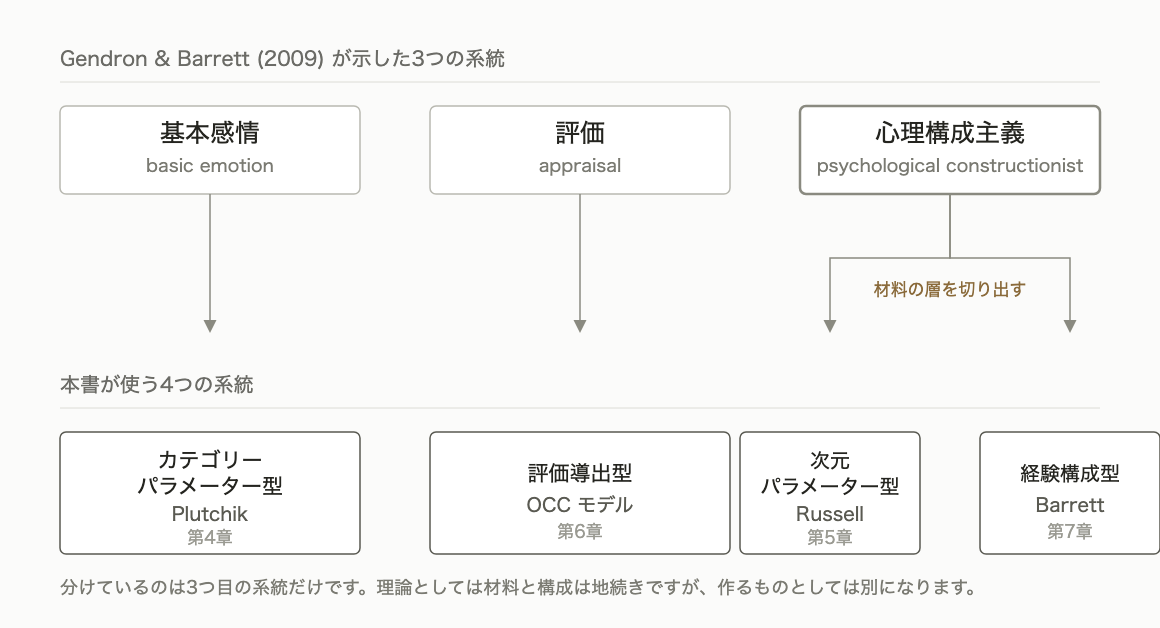
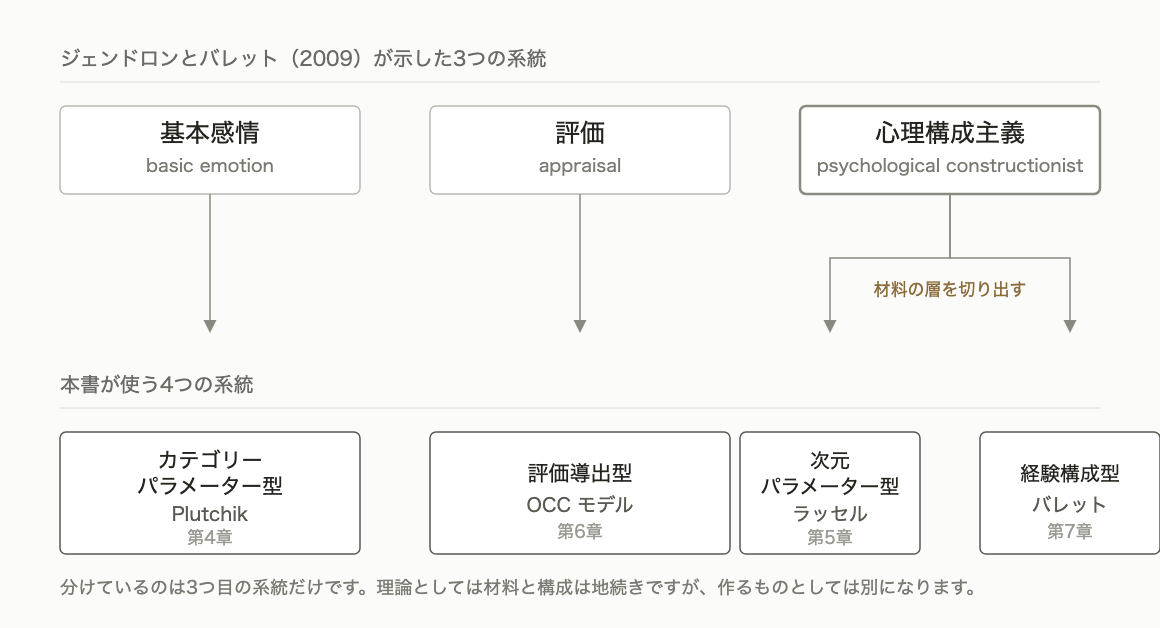
docs: 人名表記のルールを定め第2章に適用する
初出は原語表記とカタカナを併記し以降はカタカナで書く。本文に一度しか
出ない人名は原語のまま残す。カタカナは日本語文献の定着表記を優先し、
定着が確認できないものは原音からの転写とする。

第2章は本文12名をカタカナ化し、主図の人名も本文に揃えて再生成した。
あわせてレビュー指摘を反映し、節1 の4モデルの列挙を削除する。

Changed region(s): [[0.031, 0.0605, 0.4655, 0.121], [0.6828, 0.7866, 0.7448, 0.8471], [0.869, 0.7866, 0.9621, 0.8169]]

diff --git a/.cadenza/chapters/ch02.md b/.cadenza/chapters/ch02.md
@@ -79,8 +79,41 @@
 - garden の `papers/README.md` の Mehrabian & Russell の入手リンクが 1980年ペーパーバック版（ISBN 9780262630719）を指している。1974年初版は 9780262130905。誤りではないが版が違う。**ch2 の参考文献リストは初版の ISBN で正しい**
 - 参考文献の Panksepp 1998 だけ ISBN がない（版が複数あり確定できなかったため。書式の軽い不統一）
 
+### 人名表記の適用（2026-07-28・オーナー確定のルールを反映）
+
+`../state.md` と `../../docs/superpowers/writing-style-guide.md` の「人名の表記」に従い、本文と図版に適用した。
+
+**カタカナ化した12名**（本文に2回以上出現）。カタカナは Fable による調査で確定（定着表記の有無を区別して確認）。
+
+| 原語 | カタカナ | 定着の有無 |
+|---|---|---|
+| Ekman | エクマン | 定着（誠信書房『表情分析入門』） |
+| Russell | ラッセル | 定着（「ラッセルの円環モデル」が定型句） |
+| Barrett | バレット | 定着（紀伊國屋書店『情動はこうしてつくられる』） |
+| Plutchik | プルチック | 定着 |
+| Wundt | ヴント | 定着（心理学史の標準表記） |
+| Cornelius | コーネリアス | 定着（誠信書房『感情の科学』） |
+| Schachter / Singer | シャクター / シンガー | 定着（脳科学辞典） |
+| Panksepp | パンクセップ | 準定着（訳書なし） |
+| Gendron | ジェンドロン | 転写 |
+| Tracy / Randles | トレイシー / ランドルズ | 転写 |
+
+**原語のまま残した9名**（1回のみ）。Izard, Watt, Schlosberg, Osgood, Ortony, Clore, Collins, Scherer, Damasio。
+
+**✅ この方針は分野の慣行と整合している（調査で判明）**: 日本感情心理学会の学会誌『エモーション・スタディーズ』掲載論文（大平英樹「文化と歴史における感情の共構成」2020, 5(1)）の本文を精読したところ、**Barrett・Ekman・Russell・Gendron はいずれも原語表記のまま**で、カタカナ化されているのはヘーゲル・ルソーといった哲学者だけだった。**この分野の日本語学術文献では研究者名を原語で置くのがむしろ標準**であり、「複数回出る人名だけカタカナ化する」という本書の方針は慣行から外れていない。
+
+**⚠ 転写にとどまる3名**（Tracy・Randles・Gendron）は日本語文献に用例がない。本書は初出で原語を併記する形式なので、読者は原語を確認できる。
+
+**⚠ 後続章への申し送り**
+- **Scherer を「シェーラー」と書かない**。哲学者 Max Scheler のカタカナと完全に衝突し、しかも Scheler は感情の現象学で知られるため、感情の本では読者が別人と取る危険がある。カタカナ化するなら「シェラー」とし原語を併記する（ch6 で複数回出るなら要判断）
+- **Ortony / Clore / Collins はカタカナの実例が日本語文献に見つからない**。「OCC モデル」の略称で通るので原語のまま扱うのが安全（ch6 で判断）
+- Schlosberg は「シュロスバーグ」が多数派だが「スコルスバーグ」を使う資料もある。また Nancy Schlossberg（別人）も日本語では同じ表記になるため、初出で原語を添えると親切
+- ch3 以降で使う AI 分野の研究者は定着表記がなくすべて転写。ドイツ語・オランダ語・ポルトガル語の姓を英語読みにしないこと（Gebhard ゲプハルト／Wachsmuth ヴァクスムート／Steunebrink ステューネブリンク／Meyer メイエル／Dias ディアス／Paiva パイヴァ）
+
+**図版も本文に揃えた**。ヘッダを「ジェンドロンとバレット（2009）が示した3つの系統」に、代表名を「ラッセル」「バレット」に変更して PNG を再生成した。**Plutchik は図の時点ではまだ初出前なので原語のまま**（初出は図の直後の比較表）。
+
 ### 図版の状態
-主図は1回目の成果物をそのまま再利用した。
+主図は1回目の成果物を再利用し、人名表記のルール適用に伴って更新した。
 - 配置用: `images/emotion-models-for-llm-agents/ch02-four-paradigms.png`（1160×628）
 - ソース: `images/emotion-models-for-llm-agents/src/ch02-four-paradigms.svg`
 - 内容: 上段に Gendron & Barrett の3系統、下段に本書の4系統、心理構成主義だけが2つに分岐する対応図

diff --git a/docs/superpowers/writing-style-guide.md b/docs/superpowers/writing-style-guide.md
@@ -201,7 +201,21 @@ agent = Agent(
   - 例: Function Calling（関数呼び出し）
   - 例: Retrieval（情報検索）
 
-### カタカナ語
+### 人名の表記（オーナー確定 2026-07-28・全章に適用）
+
+人名は**初出時に原語表記とカタカナを併記し、以降はカタカナで書く**。
+
+```
+初出:   Ekman（以降エクマン）が1992年に基本感情の条件を定式化し、
+2回目以降: エクマンとイザードが同じ年に同じ誌上で反論しました。
+```
+
+- 原語表記はその人の言語のもの（ドイツ語圏なら英語読みに直さない）
+- **本文中に一度しか出てこない人名はカタカナを付けず、原語表記のみにする**。以降の言い換えが発生しないため併記の意味がない
+- 共著を並べる場合は各人に付ける。`Gendron（以降ジェンドロン）と Barrett（以降バレット）`
+- **カタカナは日本語の学術文献に定着した表記を優先する**。定着が確認できない人名は原音に忠実な転写を使う。判断の根拠は章ごとの cadenza 記録に残す
+- **図版の中の人名も本文と揃える**。図が本文より先に出る場合でも、本文の初出で併記されていればカタカナでよい
+- **参考文献リストは原語表記のまま**にする。書誌情報なのでカタカナ化しない
 
 - 語尾の長音符号は原則付ける
   - 例: コンピューター、サーバー、コンテナー
